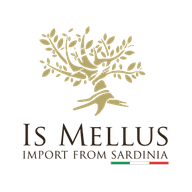
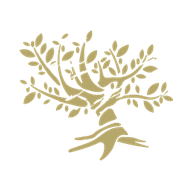
Nuove icone Is Mellus, sw rv-v6

Changed region(s): [[0.0938, 0.125, 0.9062, 0.875], [0.1875, 0.6562, 0.25, 0.75]]

diff --git a/sw.js b/sw.js
@@ -1,7 +1,7 @@
 /* Service worker: tiene l'app sul dispositivo per usarla senza connessione.
    Quando pubblichi una nuova versione dell'app, aumenta il numero qui sotto. */
-const VERSIONE = 'rv-v5';
-const FILE = ['./', 'index.html', 'app.js', 'manifest.webmanifest', 'icon-192.png', 'icon-512.png', 'logo.png'];
+const VERSIONE = 'rv-v6';
+const FILE = ['./', 'index.html', 'app.js', 'manifest.webmanifest', 'icon-192.png', 'icon-512.png', 'icon-maskable-192.png', 'icon-maskable-512.png', 'apple-touch-icon.png', 'logo.png'];
 
 self.addEventListener('install', e => {
   e.waitUntil(caches.open(VERSIONE).then(c => c.addAll(FILE)).then(() => self.skipWaiting()));

diff --git a/index.html b/index.html
@@ -12,7 +12,7 @@
 <meta name="apple-mobile-web-app-status-bar-style" content="default">
 <link rel="manifest" href="manifest.webmanifest">
 <link rel="icon" href="icon-192.png">
-<link rel="apple-touch-icon" href="icon-192.png">
+<link rel="apple-touch-icon" href="apple-touch-icon.png">
 <style>
 /* Layout: una colonna su telefono e tablet verticale; lista + dettaglio affiancati da 900px */
 :root{
